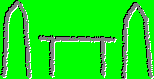
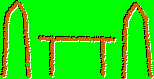
-
Revision: 31
Author: Tim Gurto
Date: Sunday, December 06, 2009 2:11:11 AM
Message:

----

Changed region(s): [[0.7792, 0.0253, 1.0, 1.0], [0.2338, 0.4557, 0.7532, 0.9873], [0.0, 0.0, 0.2078, 0.9873]]

diff --git a/game.cpp b/game.cpp
@@ -28,8 +28,17 @@ void gameMode(){
    SDL_Surface *cursor = loadImage(IMAGE_PATH + "cursor.png", GREEN);
    SDL_Surface *vBar = loadImage(IMAGE_PATH + "vBar.PNG");
    SDL_Surface *hBar = loadImage(IMAGE_PATH + "hBar.PNG");
-
+   SDL_Surface *entitiesTemp = SDL_CreateRGBSurface(SDL_HWSURFACE,
+                                                    SCREEN_WIDTH,
+                                                    SCREEN_HEIGHT,
+                                                    SCREEN_BPP, 0, 0, 0, 0);
+   SDL_SetColorKey(entitiesTemp, SDL_SRCCOLORKEY,
+                   SDL_MapRGB(entitiesTemp->format,
+                              ENTITY_BACKGROUND.r,
+                              ENTITY_BACKGROUND.g,
+                              ENTITY_BACKGROUND.b));
    Point mousePos(SCREEN_WIDTH/2, SCREEN_HEIGHT/2);
+
    SDL_ShowCursor(SDL_DISABLE);
 
    //init
@@ -44,13 +53,15 @@ void gameMode(){
    //TODO: load from files
    BuildingType campfire(0, "Campfire",
                          makeRect(-42, -92, 81, 113),
-                         makeRect(-42, -22, 81, 42),
-                         GREEN, 1250);
+                         makeRect(-42, -92, 81, 113),
+                         //makeRect(-42, -22, 81, 42),
+                         1250);
    game.buildingTypes.push_back(campfire);
    BuildingType shrine(1, "Shrine",
                          makeRect(-76, -67, 154, 79),
-                         makeRect(-76, -12, 154, 23),
-                         GREEN, 1750);
+                         makeRect(-76, -67, 154, 79),
+                         //makeRect(-76, -17, 154, 28),
+                         1750);
    game.buildingTypes.push_back(shrine);
 
    UIBars_t bars;
@@ -145,8 +156,8 @@ void gameMode(){
       // Redraw if necessary
       if (ticks - lastDrawTick >= DRAW_MS){
          //debug("Tick: redrawing");
-         drawEverything(screen, back, cursor, controlMode,
-                        mousePos, game, bars, toBuild);
+         drawEverything(screen, back, cursor, entitiesTemp,
+                        controlMode, mousePos, game, bars, toBuild);
          lastDrawTick = MIN_WAIT ? ticks : lastDrawTick + DRAW_MS;
       }
 
@@ -158,11 +169,13 @@ void gameMode(){
    freeSurface(cursor);
    freeSurface(vBar);
    freeSurface(hBar);
+   SDL_FreeSurface(entitiesTemp);
 
 }
 
 void drawEverything(SDL_Surface *screen, SDL_Surface *back,
-                    SDL_Surface *cursor, ControlMode mode,
+                    SDL_Surface *cursor, SDL_Surface *entitiesTemp,
+                    ControlMode mode,
                     const Point &mousePos, const GameData &game,
                     const UIBars_t &bars, typeNum_t toBuild){
 
@@ -186,11 +199,14 @@ void drawEverything(SDL_Surface *screen, SDL_Surface *back,
    }
    
    //Entities
-   //TODO: masks behind for outlines
+   if (ENTITY_MASKS)
+      SDL_FillRect(entitiesTemp, 0, 0x00ff00);
    for (entities_t::const_iterator it = game.entities.begin();
         it != game.entities.end(); ++it){
-      (*it)->draw(screen);
+      (*it)->draw(ENTITY_MASKS ? entitiesTemp : screen);
    }
+   if (ENTITY_MASKS)
+      SDL_BlitSurface(entitiesTemp, 0, screen, 0);
 
    //Interface
    for (UIBars_t::const_iterator it = bars.begin(); it != bars.end(); ++it){

diff --git a/EntityType.cpp b/EntityType.cpp
@@ -4,15 +4,19 @@
 #include "misc.h"
 
 EntityType::EntityType(typeNum_t index, EntityTypeID type,
-           const std::string &name,
-           const SDL_Rect &drawRect, const SDL_Rect &baseRect,
-           const SDL_Color &background):
+                       const std::string &name,
+                       const SDL_Rect &drawRect,
+                       const SDL_Rect &baseRect):
 index_(index),
 name_(name),
 drawRect_(drawRect),
 baseRect_(baseRect){
-   surface = loadImage(makePath(type, index_), background);
-   portrait = loadImage(makePath(type, index_, true), background);
+   surface = loadImage(makePath(type, index_),
+                       ENTITY_BACKGROUND);
+   portrait = loadImage(makePath(type, index_, ICON),
+                        ENTITY_BACKGROUND);
+   mask = loadImage(makePath(type, index_, MASK),
+                    ENTITY_MASK);
 }
 
 EntityType::EntityType(const EntityType &original):
@@ -21,7 +25,8 @@ name_(original.name_),
 drawRect_(original.drawRect_),
 baseRect_(original.baseRect_),
 surface(copySurface(original.surface)),
-portrait(copySurface(original.portrait)){}
+portrait(copySurface(original.portrait)),
+mask(copySurface(original.mask)){}
 
 EntityType &EntityType::operator=(const EntityType &rhs){
    if (&rhs != this){
@@ -31,6 +36,7 @@ EntityType &EntityType::operator=(const EntityType &rhs){
       baseRect_ = rhs.baseRect_;
       surface = copySurface(rhs.surface);
       portrait = copySurface(rhs.portrait);
+      mask = copySurface(rhs.mask);
    }
    return *this;
 }
@@ -38,4 +44,5 @@ EntityType &EntityType::operator=(const EntityType &rhs){
 EntityType::~EntityType(){
    freeSurface(surface);
    freeSurface(portrait);
+   freeSurface(mask);
 }

diff --git a/globals.h b/globals.h
@@ -24,7 +24,7 @@ const bool MIN_WAIT = true;
 const timer_t DRAW_MS = 1; //time between redraws
 const timer_t CALC_MS = 40; //time between state updates
 //progress points added per state update
-//progress points = time to complete something
+//progress points: proportional to completion time
 const progress_t PROGRESS_PER_CALC = 10;
 
 const pixels_t SCREEN_WIDTH = 1024;
@@ -49,16 +49,25 @@ const SDL_Color WHITE   = {0xff, 0xff, 0xff};
 
 const Uint8 OPAQUE      = 0xff;
 const Uint8 TRANSPARENT = 0;
-
+//anything behind each entity is cleared
+const bool ENTITY_MASKS = false;
+const SDL_Color ENTITY_BACKGROUND = GREEN;
+const SDL_Color ENTITY_MASK       = MAGENTA;
 const Uint32 FOOTPRINT_COLOR_GOOD = 0x008800;
 const Uint32 FOOTPRINT_COLOR_BAD  = 0x880000;
 
-//TODO rename portraits to icons
+//TODO: rename portraits to icons
 const pixels_t ICON_SIZE = 48;
 const std::string IMAGE_SUFFIX = ".png";
 const std::string IMAGE_PATH           = "Images/";
 const std::string BUILDINGS_IMAGE_PATH = "Buildings/";
 const std::string INTERFACE_IMAGE_PATH = "Interface/";
+
+enum ImageModifier{
+   NONE,
+   ICON,
+   MASK
+};
 
 enum EntityTypeID{
    BUILDING

diff --git a/misc.cpp b/misc.cpp
@@ -96,7 +96,8 @@ SDL_Surface *copySurface(SDL_Surface* src){
 //========misc=========
 
 
-std::string makePath(EntityTypeID type, typeNum_t imageNumber, bool isPortrait){
+std::string makePath(EntityTypeID type, typeNum_t imageNumber,
+                     ImageModifier modifier){
    std::ostringstream path;
    path << IMAGE_PATH; // Images/
    switch (type){
@@ -105,8 +106,14 @@ std::string makePath(EntityTypeID type, typeNum_t imageNumber, bool isPortrait){
       break;
    }
 
-   if (isPortrait)
+   switch (modifier){
+   case ICON:
       path << 'p'; // p
+      break;
+   case MASK:
+      path << 'm'; // m
+      break;
+   }
 
    if (imageNumber < 100) // 0
       path << '0';

diff --git a/EntityType.h b/EntityType.h
@@ -13,13 +13,13 @@ public:
    typeNum_t index_;
    std::string name_;
    SDL_Rect drawRect_, baseRect_;
-   SDL_Surface *surface, *portrait;
+   SDL_Surface *surface, *portrait, *mask;
 
 public:
    EntityType(typeNum_t index, EntityTypeID type,
               const std::string &name,
-              const SDL_Rect &drawRect, const SDL_Rect &baseRect,
-              const SDL_Color &background);
+              const SDL_Rect &drawRect,
+              const SDL_Rect &baseRect);
    EntityType(const EntityType &original);
    EntityType &operator=(const EntityType &rhs);
    ~EntityType();

diff --git a/BuildingType.cpp b/BuildingType.cpp
@@ -8,7 +8,6 @@ BuildingType::BuildingType(typeNum_t index,
                            const std::string &name,
                            const SDL_Rect &drawRect,
                            const SDL_Rect &baseRect,
-                           const SDL_Color &background,
                            progress_t progress):
-EntityType(index, BUILDING, name, drawRect, baseRect, background),
+EntityType(index, BUILDING, name, drawRect, baseRect),
 progress_(progress){}

diff --git a/game.h b/game.h
@@ -11,7 +11,8 @@ struct GameData;
 
 void gameMode();
 void drawEverything(SDL_Surface *screen, SDL_Surface *back,
-                    SDL_Surface *cursor, ControlMode mode,
+                    SDL_Surface *cursor, SDL_Surface *entitiesTemp,
+                    ControlMode mode,
                     const Point &mousePos, const GameData &game,
                     const UIBars_t &bars, typeNum_t toBuild);
 void updateState(GameData &game);

diff --git a/Entity.cpp b/Entity.cpp
@@ -18,6 +18,8 @@ bool Entity::operator<(const Entity &rhs) const{
 void Entity::draw(SDL_Surface *screen) const{
    const EntityType &thisType = type();
    SDL_Rect drawLoc = loc_ + thisType.drawRect_;
+   if (ENTITY_MASKS)
+      SDL_BlitSurface(thisType.mask, 0, screen, &drawLoc);
    if (getAlpha() != OPAQUE)
       SDL_SetAlpha(thisType.surface, SDL_SRCALPHA, getAlpha());
    SDL_BlitSurface(thisType.surface, 0, screen, &drawLoc);

diff --git a/misc.h b/misc.h
@@ -26,7 +26,8 @@ void freeSurface(SDL_Surface *&p);
 SDL_Surface *copySurface(SDL_Surface* src);
 
 //misc
-std::string makePath(EntityTypeID type, typeNum_t imageNumber, bool portrait = false);
+std::string makePath(EntityTypeID type, typeNum_t imageNumber,
+                     ImageModifier modifier = NONE);
 
 template <typename Type> void checkP(Type *pointer){
    if (pointer == 0){

diff --git a/dawn.cpp b/dawn.cpp
@@ -19,7 +19,7 @@ int surfacesLoaded(0); //for safety
 int main(int argc, char* argv[]){
    argc; argv; //suppress Goanna warnings
    int sdlInit(SDL_Init(SDL_INIT_VIDEO));
-   assert (sdlInit != -1);
+   assert (sdlInit == 0);
 
    int ttfInit(TTF_Init());
    assert (ttfInit >= 0);

diff --git a/BuildingType.h b/BuildingType.h
@@ -15,7 +15,6 @@ public:
                 const std::string &name,
                 const SDL_Rect &drawRect,
                 const SDL_Rect &baseRect,
-                const SDL_Color &background,
                 progress_t progress = 0);
 
 };

diff --git a/Debug.h b/Debug.h
@@ -12,7 +12,7 @@
 #include "misc.h"
 #include "globals.h"
 
-//TODO: make singleton
+//TODO: rename to MessageLog
 class Debug{
    SDL_Color color_;
    std::string name_;
